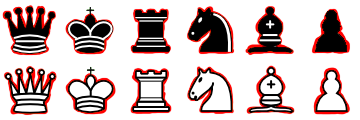
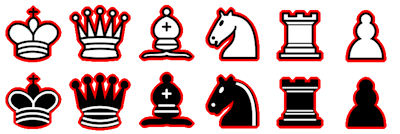
update chess pieces png

diff --git a/src/components/previewCanvas.ts b/src/components/previewCanvas.ts
@@ -2,7 +2,8 @@ import { isNumber } from "../utils";
 
 const img = new Image();
 
-// Q K R N B P
+// todo change order
+// K Q B N R P
 img.src = "pieces.png";
 
 class PieceHelper {
@@ -34,40 +35,40 @@ class PieceHelper {
   }
 
   get q() {
-    return this.#cropArea({ row: 0, column: 0 });
-  }
-  get k() {
-    return this.#cropArea({ row: 0, column: 1 });
-  }
-  get r() {
-    return this.#cropArea({ row: 0, column: 2 });
-  }
-  get n() {
-    return this.#cropArea({ row: 0, column: 3 });
-  }
-  get b() {
-    return this.#cropArea({ row: 0, column: 4 });
-  }
-  get p() {
-    return this.#cropArea({ row: 0, column: 5 });
-  }
-  get Q() {
-    return this.#cropArea({ row: 1, column: 0 });
-  }
-  get K() {
     return this.#cropArea({ row: 1, column: 1 });
   }
-  get R() {
-    return this.#cropArea({ row: 1, column: 2 });
+  get k() {
+    return this.#cropArea({ row: 1, column: 0 });
   }
-  get N() {
-    return this.#cropArea({ row: 1, column: 3 });
-  }
-  get B() {
+  get r() {
     return this.#cropArea({ row: 1, column: 4 });
   }
-  get P() {
+  get n() {
+    return this.#cropArea({ row: 1, column: 3 });
+  }
+  get b() {
+    return this.#cropArea({ row: 1, column: 2 });
+  }
+  get p() {
     return this.#cropArea({ row: 1, column: 5 });
+  }
+  get Q() {
+    return this.#cropArea({ row: 0, column: 1 });
+  }
+  get K() {
+    return this.#cropArea({ row: 0, column: 0 });
+  }
+  get R() {
+    return this.#cropArea({ row: 0, column: 4 });
+  }
+  get N() {
+    return this.#cropArea({ row: 0, column: 3 });
+  }
+  get B() {
+    return this.#cropArea({ row: 0, column: 2 });
+  }
+  get P() {
+    return this.#cropArea({ row: 0, column: 5 });
   }
 }
 
